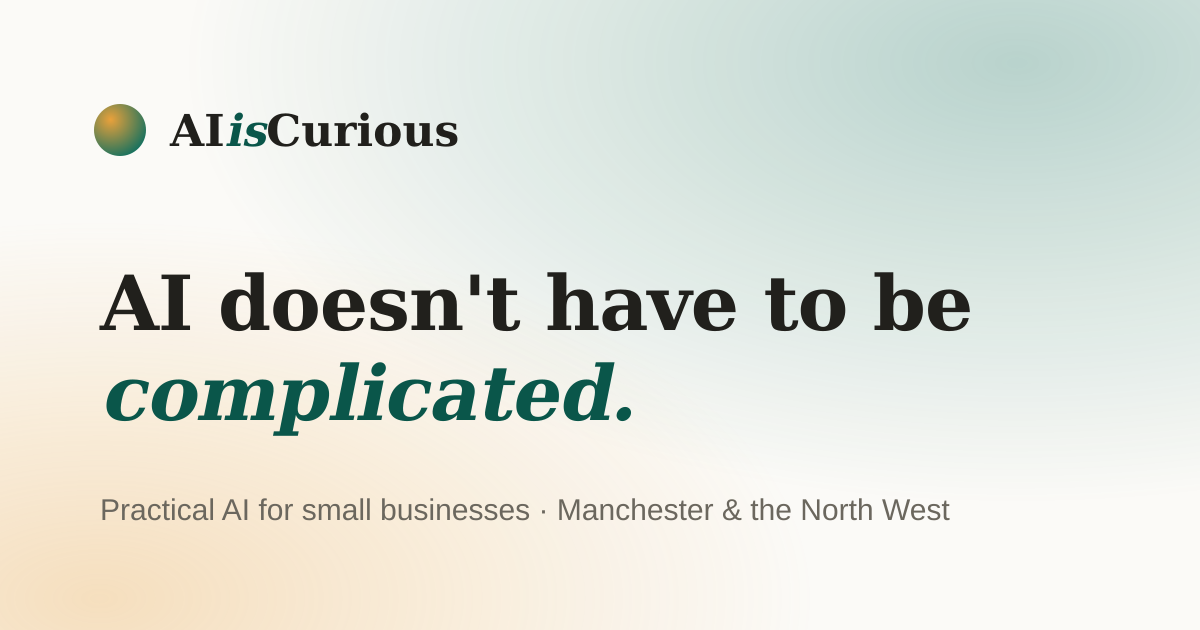
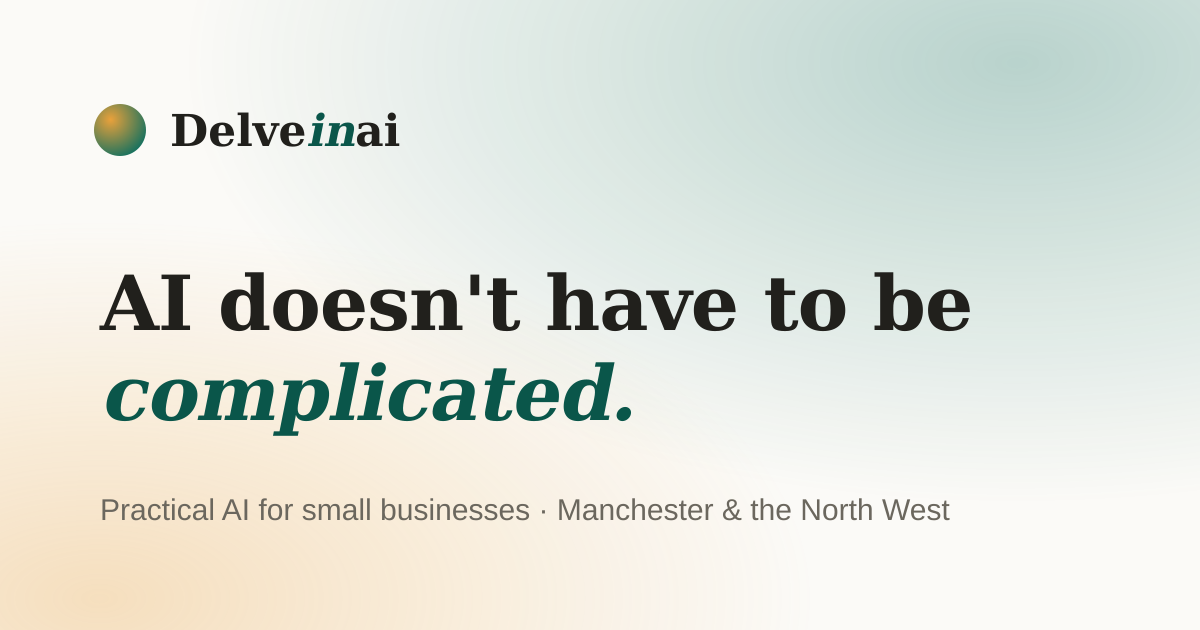
Rebrand site from AIisCurious to Delveinai
Rename the brand across all copy, page titles, meta descriptions,
Open Graph tags, JSON-LD structured data, the header/footer wordmark
(now Delve-in-ai with the italic accent), the regenerated OG share
image, package metadata, and the README.

SEO notes: canonical/OG URLs and the robots.txt sitemap stay on the
live aiiscurious.netlify.app URL until the new Delveinai domain is
connected; robots.txt now points at the live URL instead of the dead
co.uk domain, and TODOs in site.ts, astro.config.mjs and the README
list every spot to flip (plus 301 redirects) when the domain lands.

Claude-Session: https://claude.ai/code/session_01GtFLmP64gJbmpJArrLokRZ

Changed region(s): [[0.1233, 0.181, 0.4008, 0.2413]]

diff --git a/src/data/serviceAreas.ts b/src/data/serviceAreas.ts
@@ -25,7 +25,7 @@ export const serviceAreaPages: ServiceAreaPage[] = [
     serviceSlug: 'ai-essentials-workshop',
     areaName: 'Manchester',
     h1: 'AI Training & Workshops in Manchester',
-    metaTitle: 'AI Training Manchester - Practical Workshops for Teams | AIisCurious',
+    metaTitle: 'AI Training Manchester - Practical Workshops for Teams | Delveinai',
     metaDescription:
       'Hands-on AI training in Manchester for small business teams. Half-day workshops using your real work, ChatGPT, Claude, Copilot. Delivered at your office by a local specialist.',
     intro:
@@ -49,7 +49,7 @@ export const serviceAreaPages: ServiceAreaPage[] = [
     serviceSlug: 'workflow-automation',
     areaName: 'Manchester',
     h1: 'AI Automation in Manchester',
-    metaTitle: 'AI Automation Manchester - Workflow Automation for SMEs | AIisCurious',
+    metaTitle: 'AI Automation Manchester - Workflow Automation for SMEs | Delveinai',
     metaDescription:
       'Workflow and AI automation for Manchester small businesses: quotes, invoicing, enquiries, reporting. Built with tools you already own, by a local independent specialist.',
     intro:
@@ -73,7 +73,7 @@ export const serviceAreaPages: ServiceAreaPage[] = [
     serviceSlug: 'ai-setup-implementation',
     areaName: 'Manchester',
     h1: 'AI Implementation in Manchester',
-    metaTitle: 'AI Implementation Manchester - Setup Done Properly | AIisCurious',
+    metaTitle: 'AI Implementation Manchester - Setup Done Properly | Delveinai',
     metaDescription:
       'AI setup and implementation for Manchester businesses: tool selection, secure configuration, GDPR-aware data settings and team onboarding. Fixed prices, local specialist.',
     intro:
@@ -99,7 +99,7 @@ export const serviceAreaPages: ServiceAreaPage[] = [
     serviceSlug: 'ai-essentials-workshop',
     areaName: 'Liverpool',
     h1: 'AI Training & Workshops in Liverpool',
-    metaTitle: 'AI Training Liverpool - Hands-On Workshops for Teams | AIisCurious',
+    metaTitle: 'AI Training Liverpool - Hands-On Workshops for Teams | Delveinai',
     metaDescription:
       'Practical AI training in Liverpool for small business teams. Half-day hands-on workshops at your office using your real work. ChatGPT, Claude and Copilot covered.',
     intro:
@@ -123,7 +123,7 @@ export const serviceAreaPages: ServiceAreaPage[] = [
     serviceSlug: 'workflow-automation',
     areaName: 'Liverpool',
     h1: 'AI Automation in Liverpool',
-    metaTitle: 'AI Automation Liverpool - Workflow Automation for SMEs | AIisCurious',
+    metaTitle: 'AI Automation Liverpool - Workflow Automation for SMEs | Delveinai',
     metaDescription:
       'Workflow and AI automation for Liverpool businesses: enquiry handling, bookings, freight admin and reporting. Practical builds with a month of included support.',
     intro:
@@ -147,7 +147,7 @@ export const serviceAreaPages: ServiceAreaPage[] = [
     serviceSlug: 'ai-setup-implementation',
     areaName: 'Liverpool',
     h1: 'AI Implementation in Liverpool',
-    metaTitle: 'AI Implementation Liverpool - Secure AI Setup for SMEs | AIisCurious',
+    metaTitle: 'AI Implementation Liverpool - Secure AI Setup for SMEs | Delveinai',
     metaDescription:
       'AI setup and implementation for Liverpool businesses: tool selection, secure GDPR-aware configuration, and team onboarding. Independent, fixed-price, hands-on.',
     intro:
@@ -173,7 +173,7 @@ export const serviceAreaPages: ServiceAreaPage[] = [
     serviceSlug: 'ai-essentials-workshop',
     areaName: 'Cheshire',
     h1: 'AI Training & Workshops in Cheshire',
-    metaTitle: 'AI Training Cheshire - Workshops in Chester, Wilmslow & Beyond | AIisCurious',
+    metaTitle: 'AI Training Cheshire - Workshops in Chester, Wilmslow & Beyond | Delveinai',
     metaDescription:
       'Hands-on AI training across Cheshire, Chester, Wilmslow, Macclesfield, Northwich, Crewe. Half-day workshops for small business teams using your real work.',
     intro:
@@ -197,7 +197,7 @@ export const serviceAreaPages: ServiceAreaPage[] = [
     serviceSlug: 'workflow-automation',
     areaName: 'Cheshire',
     h1: 'AI Automation in Cheshire',
-    metaTitle: 'AI Automation Cheshire - Practical Workflow Automation | AIisCurious',
+    metaTitle: 'AI Automation Cheshire - Practical Workflow Automation | Delveinai',
     metaDescription:
       'Workflow and AI automation for Cheshire businesses, client onboarding, quoting, compliance paperwork and reporting. Fixed prices, built on tools you already own.',
     intro:
@@ -221,7 +221,7 @@ export const serviceAreaPages: ServiceAreaPage[] = [
     serviceSlug: 'ai-setup-implementation',
     areaName: 'Cheshire',
     h1: 'AI Implementation in Cheshire',
-    metaTitle: 'AI Implementation Cheshire - Secure Setup for Professional Firms | AIisCurious',
+    metaTitle: 'AI Implementation Cheshire - Secure Setup for Professional Firms | Delveinai',
     metaDescription:
       'AI implementation for Cheshire businesses: tool selection, secure GDPR-aware setup and team onboarding for professional firms and SMEs across the county.',
     intro:
@@ -247,7 +247,7 @@ export const serviceAreaPages: ServiceAreaPage[] = [
     serviceSlug: 'ai-essentials-workshop',
     areaName: 'Warrington',
     h1: 'AI Training & Workshops in Warrington',
-    metaTitle: 'AI Training Warrington - Practical Team Workshops | AIisCurious',
+    metaTitle: 'AI Training Warrington - Practical Team Workshops | Delveinai',
     metaDescription:
       'Hands-on AI training in Warrington for small business teams, logistics offices, consultancies and professional firms. Half-day workshops using your real work.',
     intro:
@@ -271,7 +271,7 @@ export const serviceAreaPages: ServiceAreaPage[] = [
     serviceSlug: 'workflow-automation',
     areaName: 'Warrington',
     h1: 'AI Automation in Warrington',
-    metaTitle: 'AI Automation Warrington - Logistics & Business Automation | AIisCurious',
+    metaTitle: 'AI Automation Warrington - Logistics & Business Automation | Delveinai',
     metaDescription:
       'Workflow and AI automation for Warrington businesses: transport bookings, PODs, customer updates, bids and reports. Fixed-price builds by a nearby specialist.',
     intro:
@@ -295,7 +295,7 @@ export const serviceAreaPages: ServiceAreaPage[] = [
     serviceSlug: 'ai-setup-implementation',
     areaName: 'Warrington',
     h1: 'AI Implementation in Warrington',
-    metaTitle: 'AI Implementation Warrington - Secure AI Setup for SMEs | AIisCurious',
+    metaTitle: 'AI Implementation Warrington - Secure AI Setup for SMEs | Delveinai',
     metaDescription:
       'AI setup and implementation for Warrington businesses: secure configuration, data rules, workflow templates and team onboarding. Fixed prices, local delivery.',
     intro:

diff --git a/src/data/site.ts b/src/data/site.ts
@@ -3,14 +3,16 @@
  * Update contact details, booking links and form endpoints here.
  */
 export const site = {
-  name: 'AIisCurious',
+  name: 'Delveinai',
   tagline: 'Helping small businesses take their first confident step into AI.',
-  // TODO: switch to 'https://www.aiiscurious.co.uk' once that domain's DNS is
-  // connected in Netlify (it currently doesn't resolve at all). Until then the
+  // TODO: switch to the new Delveinai domain (e.g. 'https://www.delveinai.co.uk')
+  // once it's registered and its DNS is connected in Netlify. Until then the
   // real live site is the netlify.app URL, and canonical/OG tags must match it.
   url: 'https://aiiscurious.netlify.app',
   founder: 'James',
-  email: '[email redacted]',
+  // TODO: point at a working inbox on the new Delveinai domain once its email
+  // (MX) records are set up.
+  email: '[email redacted]',
   region: 'Manchester & the North West',
   address: {
     locality: 'Manchester',
@@ -53,7 +55,8 @@ export const site = {
   // The booking form uses Netlify Forms (form name: "booking").
   // Configure notification emails in Netlify: Site → Forms → Notifications.
   social: {
-    linkedin: 'https://www.linkedin.com/company/aiiscurious',
+    // TODO: create/rename the LinkedIn company page to match the new brand.
+    linkedin: 'https://www.linkedin.com/company/delveinai',
   },
 } as const;
 

diff --git a/src/data/services.ts b/src/data/services.ts
@@ -20,7 +20,7 @@ export const services: Service[] = [
     name: 'AI Opportunity Review',
     shortName: 'Opportunity Review',
     tagline: 'Find out exactly where AI could save your business time, before you spend anything.',
-    metaTitle: 'AI Opportunity Review for Small Businesses | AIisCurious',
+    metaTitle: 'AI Opportunity Review for Small Businesses | Delveinai',
     metaDescription:
       'A free 15-minute conversation and a personalised report showing where AI could genuinely save your small business time. Manchester-based, no jargon, no obligation.',
     whoFor:
@@ -66,7 +66,7 @@ export const services: Service[] = [
     name: 'AI Essentials Workshop',
     shortName: 'Essentials Workshop',
     tagline: 'Get your whole team confident with AI in half a day, using your real work, not demos.',
-    metaTitle: 'AI Essentials Workshop - Practical AI Training for Teams | AIisCurious',
+    metaTitle: 'AI Essentials Workshop - Practical AI Training for Teams | Delveinai',
     metaDescription:
       'A half-day, hands-on AI workshop for small business teams across Manchester and the North West. Your team leaves using ChatGPT, Claude or Copilot on real work the same day.',
     whoFor:
@@ -111,7 +111,7 @@ export const services: Service[] = [
     name: 'AI Setup & Implementation',
     shortName: 'Setup & Implementation',
     tagline: 'The right tools, set up properly and securely, with your team actually using them.',
-    metaTitle: 'AI Setup & Implementation for Small Businesses | AIisCurious',
+    metaTitle: 'AI Setup & Implementation for Small Businesses | Delveinai',
     metaDescription:
       'Hands-on AI setup for small businesses: tool selection, secure configuration, data protection settings and team onboarding. Fixed prices, delivered across the North West.',
     whoFor:
@@ -156,7 +156,7 @@ export const services: Service[] = [
     name: 'Workflow Automation',
     shortName: 'Automation',
     tagline: 'Hand your repetitive admin to software that never gets bored.',
-    metaTitle: 'Workflow Automation for Small Businesses | AIisCurious',
+    metaTitle: 'Workflow Automation for Small Businesses | Delveinai',
     metaDescription:
       'Practical workflow automation for small businesses in the North West: quotes, invoicing, email triage, data entry and reporting, built with tools you already pay for.',
     whoFor:
@@ -200,7 +200,7 @@ export const services: Service[] = [
     name: 'Ongoing AI Support',
     shortName: 'Ongoing Support',
     tagline: 'A knowledgeable person to call as AI changes, without hiring anyone.',
-    metaTitle: 'Ongoing AI Support & Advice for Small Businesses | AIisCurious',
+    metaTitle: 'Ongoing AI Support & Advice for Small Businesses | Delveinai',
     metaDescription:
       'Monthly AI support for small businesses: a regular check-in, help when tools change, new opportunities spotted, and questions answered, without hiring anyone.',
     whoFor:

diff --git a/src/data/locations.ts b/src/data/locations.ts
@@ -30,7 +30,7 @@ export const locations: Location[] = [
     metaDescription:
       'Independent AI consultant in Manchester. Practical AI advice, training and implementation for small businesses, from the Northern Quarter to Spinningfields. Free AI Opportunity Report.',
     intro:
-      'Manchester is where AIisCurious is based, and it’s a city that has always been quick to adopt what works, from the first railways to one of the UK’s largest tech scenes outside London. But away from the venture-funded startups, most Manchester businesses are agencies, practices, workshops and shops with the same question: what would AI actually do for us? That’s the question I answer, in plain English, over a brew.',
+      'Manchester is where Delveinai is based, and it’s a city that has always been quick to adopt what works, from the first railways to one of the UK’s largest tech scenes outside London. But away from the venture-funded startups, most Manchester businesses are agencies, practices, workshops and shops with the same question: what would AI actually do for us? That’s the question I answer, in plain English, over a brew.',
     businesses: [
       'Creative and marketing agencies around the Northern Quarter and Ancoats',
       'Law and accountancy firms in Spinningfields and around Deansgate',

diff --git a/src/styles/global.css b/src/styles/global.css
@@ -1,5 +1,5 @@
 /* ==========================================================================
-   AIisCurious, Design System
+   Delveinai, Design System
    Calm, editorial, premium. Mobile-first. Light & dark.
    ========================================================================== */
 

diff --git a/README.md b/README.md
@@ -1,4 +1,4 @@
-# AIisCurious
+# Delveinai
 
 **Helping small businesses take their first confident step into AI.**
 
@@ -115,9 +115,12 @@ tagged with the channel/campaign that produced it.
 ## Before launch — replace these
 
 1. **Domain** — `src/data/site.ts` and `astro.config.mjs` currently point at
-   `https://aiiscurious.netlify.app` because `aiiscurious.co.uk` has no DNS configured yet.
-   Once the custom domain is connected in Netlify, switch both files (and re-submit the
-   sitemap in Search Console) to `https://www.aiiscurious.co.uk`.
+   `https://aiiscurious.netlify.app` because the new Delveinai custom domain hasn't been
+   registered/connected yet. Once it's connected in Netlify, switch both files, plus the
+   `Sitemap:` line in `public/robots.txt` and the contact email in `src/data/site.ts`,
+   to the new domain (e.g. `https://www.delveinai.co.uk`), re-submit the sitemap in
+   Search Console, and set up 301 redirects from the old netlify.app URL so existing
+   rankings and backlinks carry over.
 2. **Form notifications** — enable Netlify Forms email notifications (see above) so
    submissions reach your inbox.
 3. **Tracking IDs** — `metaPixelId`, `ga4MeasurementId`, `googleAdsId` and